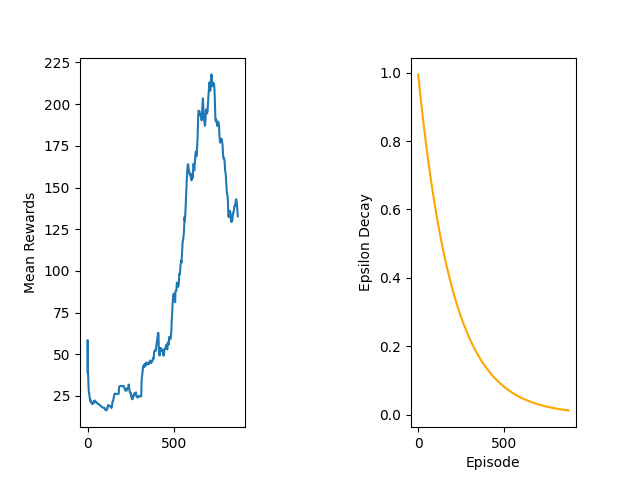
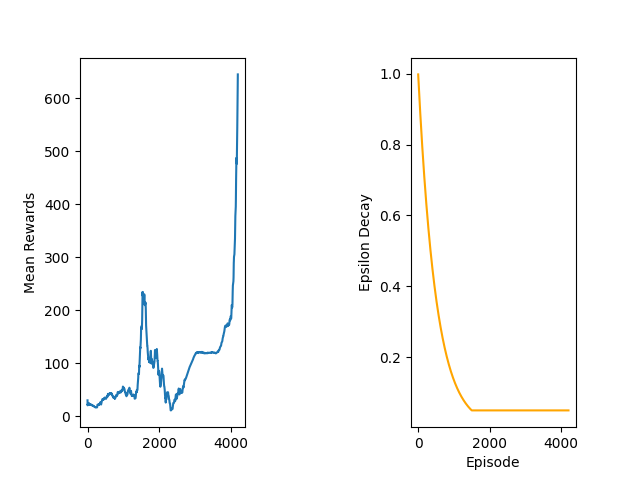
implemented double dqn

diff --git a/agent.py b/agent.py
@@ -49,7 +49,7 @@ class FlappyBirdAgent:
         self.network_sync_rate = hyperparameters["network_sync_rate"]
         self.fc1_nodes = hyperparameters["fc1_nodes"]
         self.env_make_params = hyperparameters.get("env_make_params",{})
-
+        self.enable_double_dqn = hyperparameters["enable_double_dqn"]
 
 
         self.loss_fn = torch.nn.MSELoss()
@@ -146,7 +146,9 @@ class FlappyBirdAgent:
                 # Store the model when the best reward is achieved
                 if is_training:
                     if episode_reward > best_reward:
-                        log_message = f"{datetime.now().strftime(DATE_FORMAT)}: New best reward {episode_reward:0.1f} ({(episode_reward-best_reward)/best_reward*100:+.1f}%) at episode {episode}, saving model..."
+                        improvement = f"{(episode_reward-best_reward)/best_reward*100:+.1f}%" if best_reward != float('-inf') else "first save"
+                        log_message = f"{datetime.now().strftime(DATE_FORMAT)}: New best reward {episode_reward:0.1f} ({improvement}) at episode {episode}"
+                        #log_message = f"{datetime.now().strftime(DATE_FORMAT)}: New best reward {episode_reward:0.1f} ({(episode_reward-best_reward)/best_reward*100:+.1f}%) at episode {episode}, saving model..."
                         print(log_message)
                         with open(self.LOG_FILE, "a") as log_file:
                             log_file.write(log_message + "\n")
@@ -164,7 +166,7 @@ class FlappyBirdAgent:
 
 
                 
-            rewards_per_episode.append(episode_reward)
+            rewards_per_episode.append(episode_reward.cpu().item() if torch.is_tensor(episode_reward) else episode_reward)
 
             if is_training:
                 epsilon = max(self.epsilon_min, epsilon * self.epsilon_decay)
@@ -184,9 +186,10 @@ class FlappyBirdAgent:
         fig=plt.figure(1)
         mean_rewards = np.zeros(len(rewards_per_episode))
         for x in range(len(mean_rewards)):
-            mean_rewards[x] = np.mean(rewards_per_episode[max(0, x-99):(x+1)])
+            mean_rewards[x] = np.mean([r.cpu().item() if torch.is_tensor(r) else r 
+                           for r in rewards_per_episode[max(0, x-99):(x+1)]])
 
-        plt.subplot(  1, 2, 1)
+        plt.subplot(  1, 2, 1)  
         plt.ylabel('Mean Rewards')
         plt.plot(mean_rewards)
         
@@ -214,9 +217,14 @@ class FlappyBirdAgent:
         reward = torch.stack(reward)
 
         terminated =  torch.tensor(terminated).float().to(device)
-
+        #double dqn: use policy to select the best action, but use target to calculate the q value of that action. This way we avoid overestimation bias.
         with torch.no_grad():
-            target_q_value = reward + (1 - terminated) * self.discount_factor * target(new_state).max(1)[0]
+            if self.enable_double_dqn:
+                best_actions = policy(new_state).argmax(1)
+                target_q_value = reward + (1 - terminated) * self.discount_factor * target(new_state).gather(1, best_actions.unsqueeze(1)).squeeze()
+            
+            else:
+                target_q_value = reward + (1 - terminated) * self.discount_factor * target(new_state).max(1)[0]
 
         current_q_value = policy(state).gather(1, action.unsqueeze(1)).squeeze()
         
